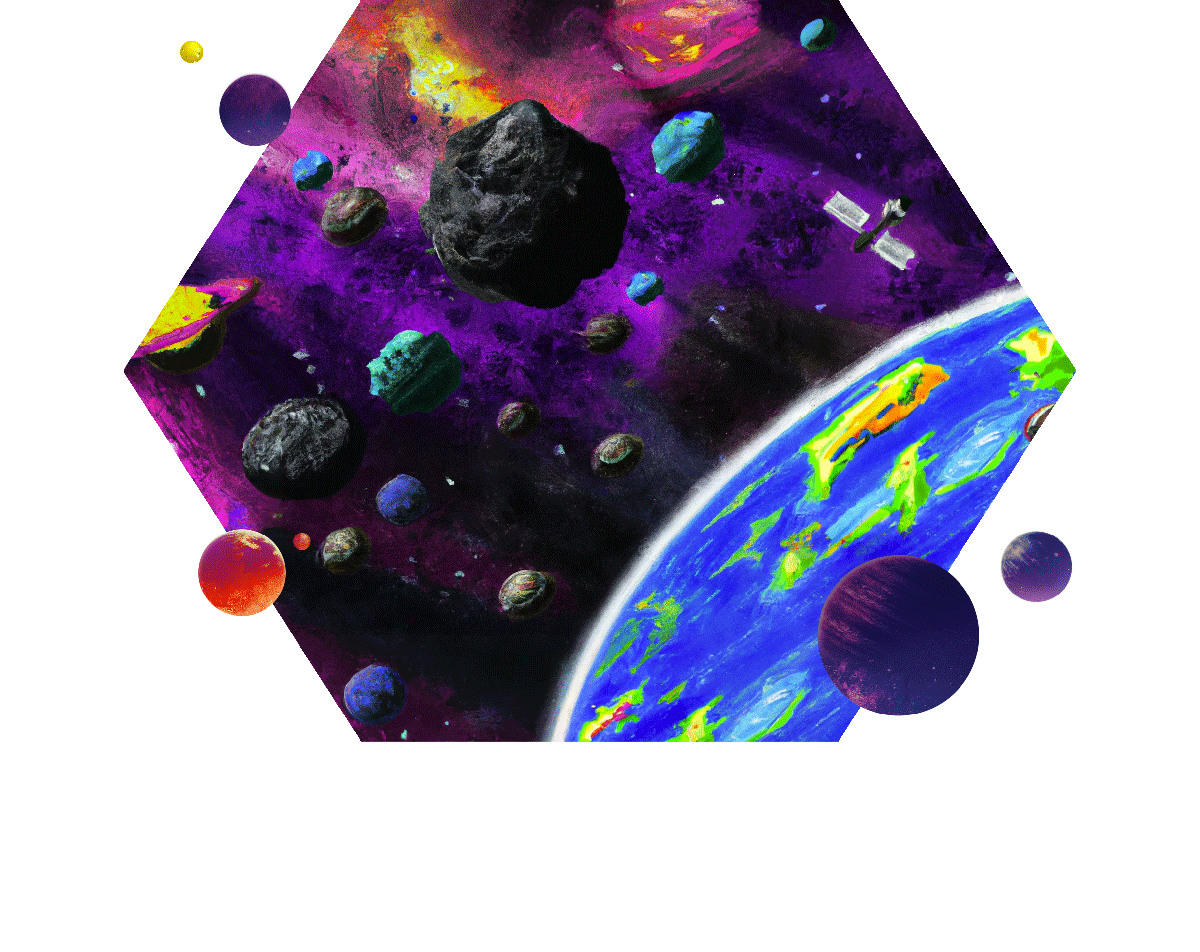
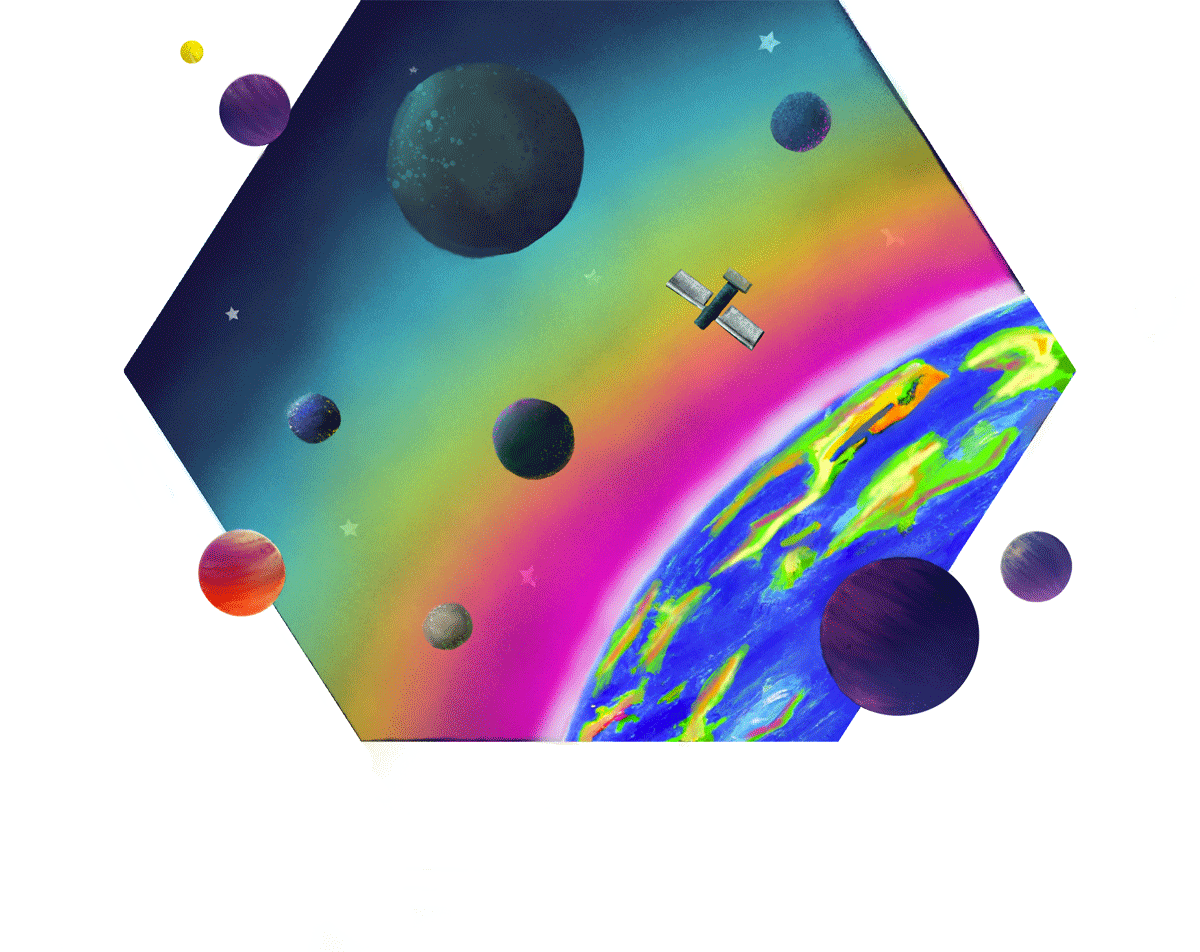
Updating BGs

diff --git a/docs/test/skillmap/sparks.md b/docs/test/skillmap/sparks.md
@@ -6,7 +6,7 @@
 * backgroundurl: /static/skillmap/backgrounds/spark-comp.gif
 * primarycolor: #ffffff
 * secondarycolor: #fff53d
-* tertiarycolor: #82cd54
+* tertiarycolor: #93fffb
 * completednodecolor: #604c4e
 * highlightcolor: #ff0000
 * allowcodecarryover: true
